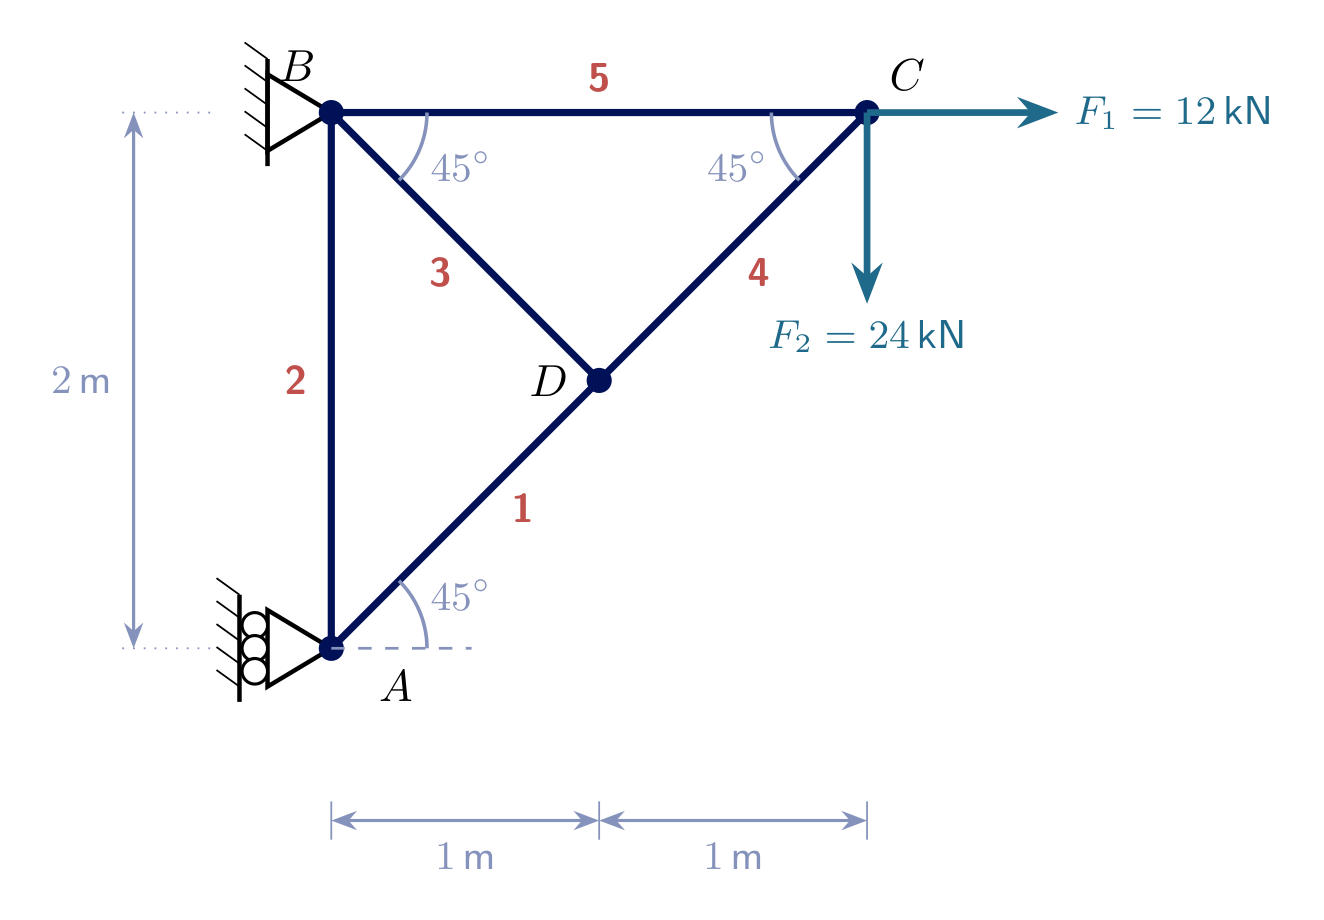
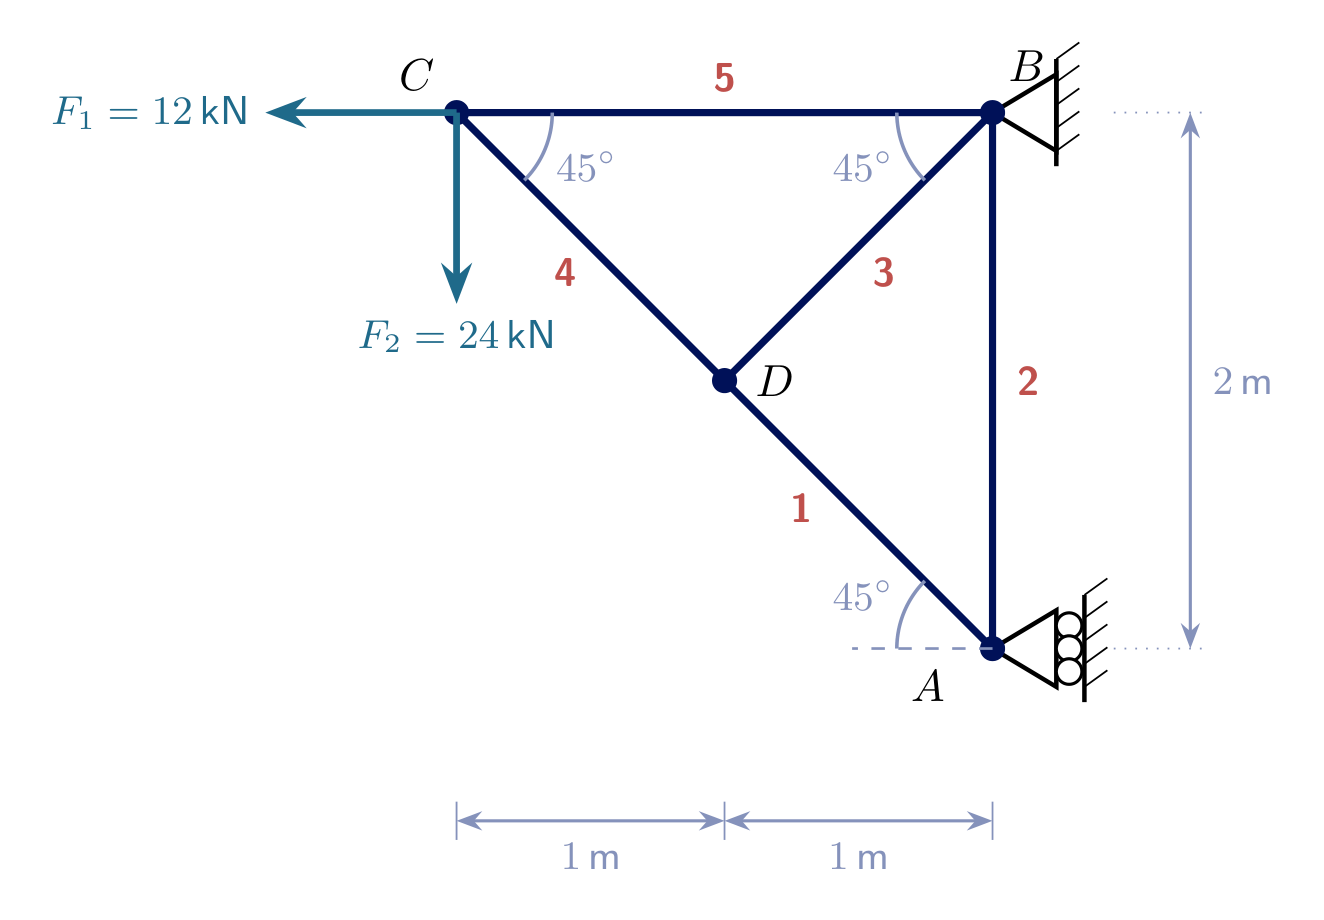
exam examples

diff --git a/Engineering_Mechanics/e_07/assets/em_s07_figs.tex b/Engineering_Mechanics/e_07/assets/em_s07_figs.tex
@@ -202,7 +202,7 @@
 \node[loadcol] at ($(2.100,2.100)+(-15.0:1.25)$) {\scriptsize $30^\circ$};
 \end{tikzpicture}
 
-\begin{tikzpicture}
+\begin{tikzpicture}[xscale=-1]
 \begin{scope}[shift={(0.000,0.000)}, rotate=-90] \loslager \end{scope}
 \begin{scope}[shift={(0.000,4.200)}, rotate=-90] \festlager \end{scope}
 \draw[member] (0.000,0.000) -- (2.100,2.100);
@@ -214,10 +214,10 @@
 \joint{(0.000,4.200)}
 \joint{(4.200,4.200)}
 \joint{(2.100,2.100)}
-\node[below right] at ($(0,0)+(0.25,-0.05)$) {$A$};
-\node[above left] at ($(0,4.2)+(0.0,0.12)$) {$B$};
-\node[above right] at ($(4.2,4.2)+(0.05,0.05)$) {$C$};
-\node[left] at ($(2.1,2.1)+(-0.12,0)$) {$D$};
+\node[below left] at ($(0,0)+(0.25,-0.05)$) {$A$};
+\node[above right] at ($(0,4.2)+(0.0,0.12)$) {$B$};
+\node[above left] at ($(4.2,4.2)+(0.05,0.05)$) {$C$};
+\node[right] at ($(2.1,2.1)+(-0.12,0)$) {$D$};
 \node[numcol] at (1.500,1.104) {\small \textbf{1}};
 \node[numcol] at (-0.280,2.100) {\small \textbf{2}};
 \node[numcol] at (0.852,2.952) {\small \textbf{3}};
@@ -238,16 +238,16 @@
 \draw[accent, line width=0.4pt] (2.100,-1.5) -- (2.100,-1.2000000000000002);
 \draw[accent, line width=0.4pt] (4.200,-1.5) -- (4.200,-1.2000000000000002);
 \draw[dim] (-1.550,0) -- (-1.550,4.200);
-\node[left, accent] at (-1.600,2.100) {\small $2\,\text{m}$};
+\node[right, accent] at (-1.600,2.100) {\small $2\,\text{m}$};
 \draw[accent, line width=0.4pt, dotted] (-0.95,0) -- (-1.700,0);
 \draw[accent, line width=0.4pt, dotted] (-0.95,4.200) -- (-1.700,4.200);
 \draw[force] (4.200,4.200) -- (5.700,4.200);
-\node[loadcol, right] at (5.700,4.200) {\small $F_1 = 12\,\text{kN}$};
+\node[loadcol, left] at (5.700,4.200) {\small $F_1 = 12\,\text{kN}$};
 \draw[force] (4.200,4.200) -- (4.200,2.700);
 \node[loadcol, below] at (4.200,2.700) {\small $F_2 = 24\,\text{kN}$};
 \end{tikzpicture}
 
-\begin{tikzpicture}
+\begin{tikzpicture}[xscale=-1]
 \begin{scope}[shift={(0.000,0.000)}, rotate=0] \festlager \end{scope}
 \begin{scope}[shift={(0.000,2.800)}, rotate=-90] \loslager \end{scope}
 \draw[member] (0.000,0.000) -- (2.100,1.400);
@@ -259,10 +259,10 @@
 \joint{(0.000,2.800)}
 \joint{(4.200,2.800)}
 \joint{(2.100,1.400)}
-\node[below right] at ($(0,0)+(0.25,-0.05)$) {$A$};
-\node[above left] at ($(0,2.8000000000000003)+(0.0,0.12)$) {$B$};
-\node[above right] at ($(4.2,2.8000000000000003)+(0.05,0.05)$) {$C$};
-\node[left] at ($(2.1,1.4000000000000001)+(-0.12,0)$) {$D$};
+\node[below left] at ($(0,0)+(0.25,-0.05)$) {$A$};
+\node[above right] at ($(0,2.8000000000000003)+(0.0,0.12)$) {$B$};
+\node[above left] at ($(4.2,2.8000000000000003)+(0.05,0.05)$) {$C$};
+\node[right] at ($(2.1,1.4000000000000001)+(-0.12,0)$) {$D$};
 \node[numcol] at (1.457,0.635) {\small \textbf{1}};
 \node[numcol] at (-0.280,1.400) {\small \textbf{2}};
 \node[numcol] at (0.895,1.867) {\small \textbf{3}};
@@ -283,11 +283,11 @@
 \draw[accent, line width=0.4pt] (2.100,-1.5) -- (2.100,-1.2000000000000002);
 \draw[accent, line width=0.4pt] (4.200,-1.5) -- (4.200,-1.2000000000000002);
 \draw[dim] (-1.550,0) -- (-1.550,2.800);
-\node[left, accent] at (-1.600,1.400) {\small $2\,\text{m}$};
+\node[right, accent] at (-1.600,1.400) {\small $2\,\text{m}$};
 \draw[accent, line width=0.4pt, dotted] (-0.95,0) -- (-1.700,0);
 \draw[accent, line width=0.4pt, dotted] (-0.95,2.800) -- (-1.700,2.800);
 \draw[force] (4.200,2.800) -- (4.950,1.501);
-\node[loadcol, right] at (4.950,1.501) {\small $F = 20\,\text{kN}$};
+\node[loadcol, left] at (4.950,1.501) {\small $F = 20\,\text{kN}$};
 \draw[loadcol, dashed, line width=0.5pt] (4.200,2.800) -- ($(4.200,2.800)+(0:1.2)$);
 \draw[loadcol, line width=0.7pt] ($(4.200,2.800)+(0:0.85)$) arc (0:-60:0.85);
 \node[loadcol] at ($(4.200,2.800)+(-30.0:1.25)$) {\scriptsize $60^\circ$};

diff --git a/Engineering_Mechanics/e_07/assets/gen_figs.py b/Engineering_Mechanics/e_07/assets/gen_figs.py
@@ -34,7 +34,7 @@ HEAD = r"""\documentclass[tikz,border=8pt,multi=tikzpicture]{standalone}
 def num(v):  # deutsche Dezimalschreibweise vermeiden -> englisch (Vorlesung ist englisch)
     return f"{v:g}"
 
-def pic(b, h, blab, hlab, supports, loads, alpha_lab, halflab=None, dpos="left"):
+def pic(b, h, blab, hlab, supports, loads, alpha_lab, halflab=None, dpos="left", mirror=False):
     halflab = halflab or (blab + "/2")
     k = 4.2 / max(b, h)
     W, H = b * k, h * k
@@ -112,6 +112,11 @@ def pic(b, h, blab, hlab, supports, loads, alpha_lab, halflab=None, dpos="left")
             mid = (ref + ang) / 2
             o.append(rf"\node[loadcol] at ($({p[0]:.3f},{p[1]:.3f})+({mid}:1.25)$) {{\scriptsize ${show}$}};")
     o.append(r"\end{tikzpicture}")
+    if mirror:  # an der Senkrechten spiegeln: Wand rechts; Texte bleiben lesbar, left/right der Labels tauschen
+        import re
+        sw = lambda m: m.group(0).replace("left", "#L#").replace("right", "left").replace("#L#", "right")
+        o = [re.sub(r"\\node\[[^\]]*\]", sw, line) for line in o]
+        o[0] = r"\begin{tikzpicture}[xscale=-1]"
     return "\n".join(o)
 
 std = [('A', 'pin', 'down'), ('B', 'roller', 'wall')]
@@ -123,7 +128,7 @@ pics = [
     pic(2, 2, r"2\,\text{m}", r"2\,\text{m}", std, [('C', r"F_1 = 10\,\text{kN}", 0, None), ('C', r"F_2 = 30\,\text{kN}", 90, None)], r"45^\circ", r"1\,\text{m}"),
     pic(1.5, 1.5, r"1.5\,\text{m}", r"1.5\,\text{m}", std, [('C', r"F_1 = 20\,\text{kN}", 270, None), ('D', r"F_2 = 10\,\text{kN}", 180, None)], r"45^\circ", r"0.75\,\text{m}", "below right"),
     pic(2, 2, r"2\,\text{m}", r"2\,\text{m}", std, [('D', r"F = 15\,\text{kN}", -30, r"30^\circ")], r"45^\circ", r"1\,\text{m}"),
-    pic(2, 2, r"2\,\text{m}", r"2\,\text{m}", swp, [('C', r"F_1 = 12\,\text{kN}", 0, None), ('C', r"F_2 = 24\,\text{kN}", 270, None)], r"45^\circ", r"1\,\text{m}"),
-    pic(3, 2, r"3\,\text{m}", r"2\,\text{m}", std, [('C', r"F = 20\,\text{kN}", -60, r"60^\circ")], r"33.7^\circ", r"1.5\,\text{m}"),
+    pic(2, 2, r"2\,\text{m}", r"2\,\text{m}", swp, [('C', r"F_1 = 12\,\text{kN}", 0, None), ('C', r"F_2 = 24\,\text{kN}", 270, None)], r"45^\circ", r"1\,\text{m}", mirror=True),
+    pic(3, 2, r"3\,\text{m}", r"2\,\text{m}", std, [('C', r"F = 20\,\text{kN}", -60, r"60^\circ")], r"33.7^\circ", r"1.5\,\text{m}", mirror=True),
 ]
 open('em_s07_figs.tex', 'w').write(HEAD + "\n\n".join(pics) + "\n\\end{document}\n")

diff --git a/Engineering_Mechanics/e_07/index.md b/Engineering_Mechanics/e_07/index.md
@@ -156,7 +156,8 @@ d) Which members are zero-force members here - and why is the answer different f
 **Given**
 - $b = h = 2\ \text{m}$, $\alpha = 45^\circ$
 - $A$: **roller support** at the wall (reaction horizontal only), $B$: **pin support** at the wall
-- At $C$: $F_1 = 12\ \text{kN}$ horizontal (to the right), $F_2 = 24\ \text{kN}$ vertical (downwards)
+- Mirrored model: wall on the **right**, $C$ on the left
+- At $C$: $F_1 = 12\ \text{kN}$ horizontal (to the left), $F_2 = 24\ \text{kN}$ vertical (downwards)
 
 **Find**
 a) the support reactions at $A$ and $B$
@@ -175,7 +176,8 @@ c) Which member now carries the vertical load into the support - compare with Ex
 **Given**
 - $b = 3\ \text{m}$, $h = 2\ \text{m}$, $\alpha = 33.7^\circ$ ($\sin\alpha = 0.555$, $\cos\alpha = 0.832$)
 - $A$: **pin support**, $B$: **roller support** at the wall (reaction horizontal only)
-- At $C$: $F = 20\ \text{kN}$, acting **downwards to the right** at $60^\circ$ below the horizontal
+- Mirrored model: wall on the **right**, $C$ on the left
+- At $C$: $F = 20\ \text{kN}$, acting **downwards to the left** at $60^\circ$ below the horizontal
 
 **Find**
 a) the components of $F$

diff --git a/MTI/mti_ft_11/index.md b/MTI/mti_ft_11/index.md
@@ -761,7 +761,7 @@ c) $KV = 20 \cdot 9{,}81 \cdot 0{,}15 = 29{,}4$ J ≥ 27 J → **erfüllt** (kna
   - Zug-/Druckversuch (Resonanzpulsator, servohydraulisch)
 - Ergebnis: Wöhlerlinie, Dauer- und Zeitfestigkeit (Details: Vorlesung Ermüdung und Verschleiß)
 
-![h:300](../../assets/Figures/Whoehlerversuch.svg)
+![bg right:40% fit](../../assets/Figures/Whoehlerversuch.svg)
 
 ---
 
